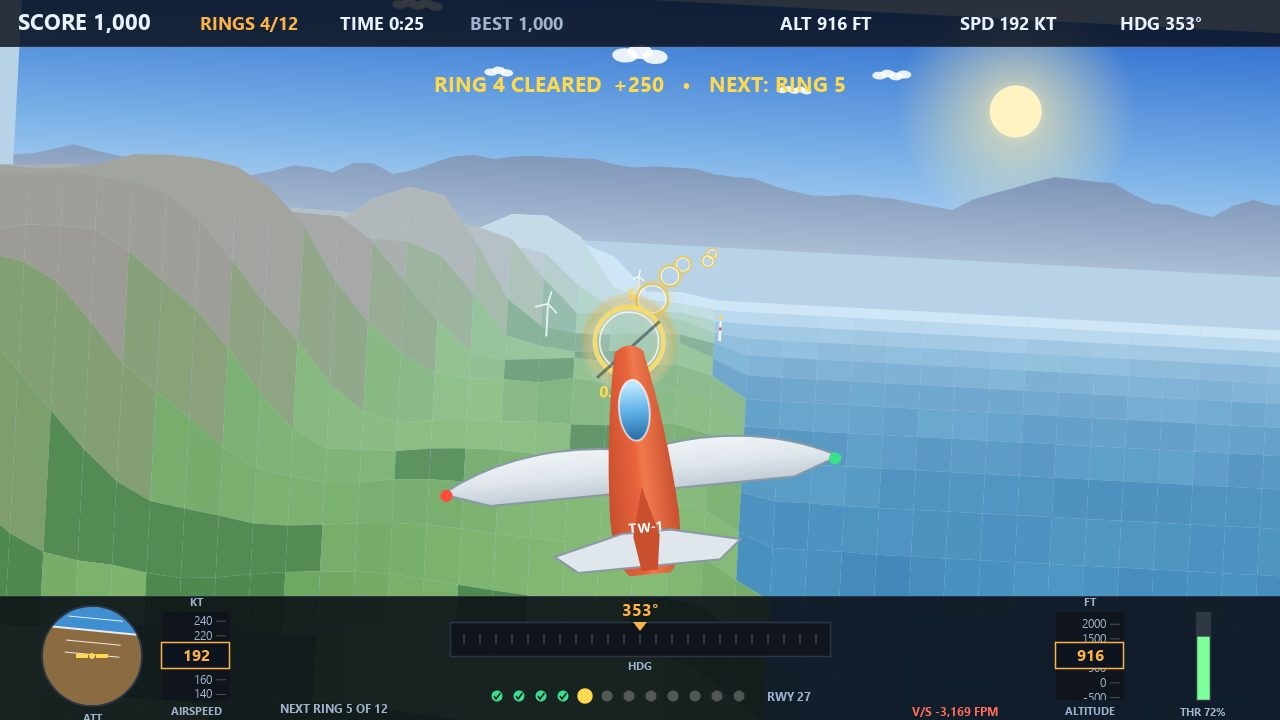
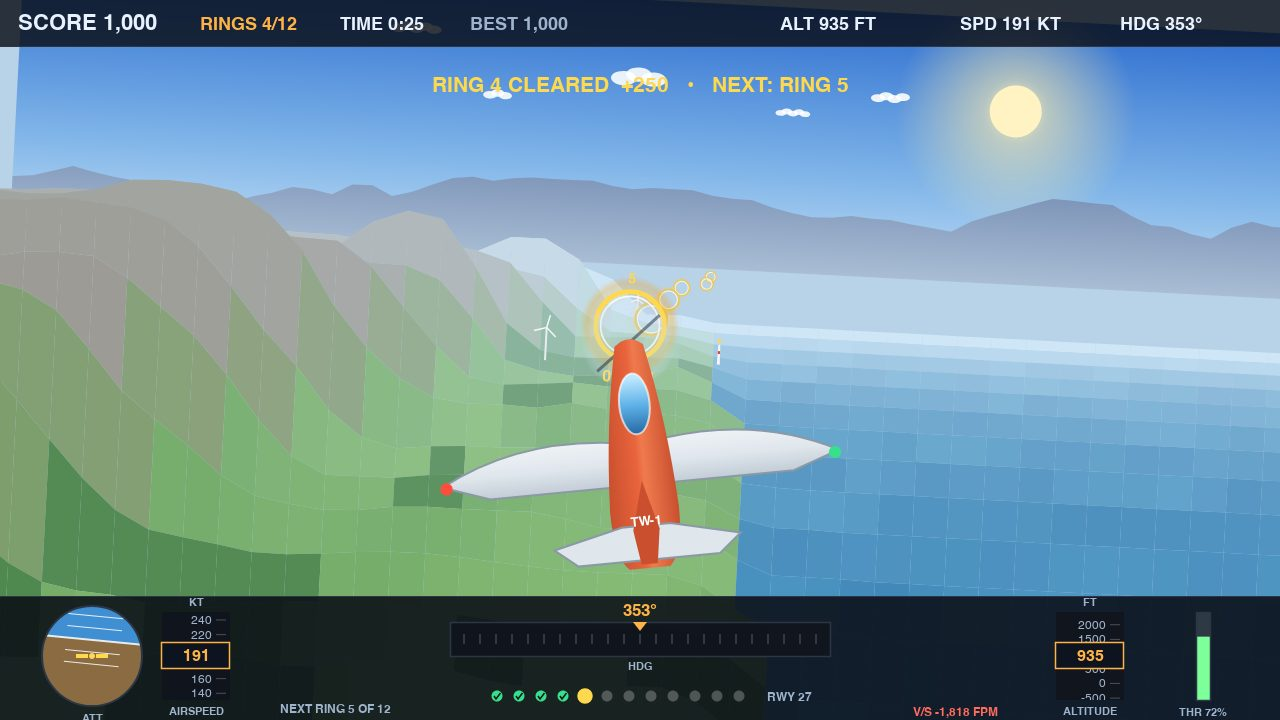
Round 2: stopway past Runway 27, gentler ring steps, audio resume catch
- terrain: flat 8 ft overrun for 1,600 ft past the runway end; a long
  landing now settles or goes around instead of hitting a terrain wall
  (66-122 ft step) one foot past the pavement
- world: gentle touchdown up to 1,200 ft past the runway end counts as
  landing on Runway 27 (same gentle criteria); hard touchdown there
  reports TOO HARD ON THE RUNWAY
- course: consecutive ring altitudes capped to 150 ft steps, so no ring
  forces a steep dive (worst mid-rally dive -2,649 FPM vs -3,704 in r1)
- audio: catch the resume() promise so navigating away mid-game leaves
  no console error

Verified: full-gain autopilot lands 30/30 seeds, 12/12 rings, 5,100;
60%-authority pilot lands 10/10 in the stopway (was 0/10, all terrain
wall at z=31201); 50% lands 10/10; Camoufox playtest zero console
errors, zero external requests; screenshots re-rendered from real
renders; main.ts run twice, byte-identical.

diff --git a/game/src/world.js b/game/src/world.js
@@ -165,7 +165,7 @@ export function createWorld(seed) {
     // --- Ground: terrain, sea and the runway decide crash or landing. ---
     const ground = terrainHeight(state.x, state.z, seed);
     if (state.altitude <= ground) {
-      const onStrip = Math.abs(state.x - RUNWAY.x) <= RUNWAY.width / 2 && state.z >= RUNWAY.zStart && state.z <= RUNWAY.zEnd;
+      const onStrip = Math.abs(state.x - RUNWAY.x) <= RUNWAY.width / 2 && state.z >= RUNWAY.zStart && state.z <= RUNWAY.zEnd + RUNWAY.overrun;
       const gentle = state.verticalSpeed > -1200 && state.speed < 180 && Math.abs(state.roll) < 20;
       if (onStrip && gentle && state.phase !== PHASE_CRASHED) {
         state.phase = PHASE_LANDED;
@@ -186,7 +186,7 @@ export function createWorld(seed) {
         state.phase = PHASE_CRASHED;
         state.altitude = ground;
         if (ground <= 1 && state.z > 100) state.crashReason = 'DITCHED IN THE SEA';
-        else if (state.z >= RUNWAY.zStart && state.z <= RUNWAY.zEnd) state.crashReason = 'TOO HARD ON THE RUNWAY';
+        else if (state.z >= RUNWAY.zStart && state.z <= RUNWAY.zEnd + RUNWAY.overrun) state.crashReason = 'TOO HARD ON THE RUNWAY';
         else state.crashReason = 'TERRAIN IMPACT';
         events |= EVENT_CRASH | EVENT_OVER;
       }

diff --git a/game/src/terrain.js b/game/src/terrain.js
@@ -52,6 +52,13 @@ export function terrainHeight(x, z, seed) {
     const t = smoothstep(160, 60, Math.abs(x)) * smoothstep(23600, 24400, z);
     h = h * (1 - t) + 34 * t;
   }
+  // Overrun: flat, low ground just past the far end, as a real airfield has — a
+  // plane that floats past the pavement settles or goes around instead of hitting
+  // a terrain wall one foot past the threshold.
+  if (Math.abs(x) < 200 && z >= RUNWAY.zEnd && z < RUNWAY.zEnd + 1600) {
+    const t = smoothstep(200, 80, Math.abs(x)) * smoothstep(RUNWAY.zEnd + 1600, RUNWAY.zEnd + 300, z);
+    h = h * (1 - t) + 8 * t;
+  }
   if (inCity(x, z)) h = 24 + fbm2(x * 0.004, z * 0.004, seed + 9) * 6;
   return h;
 }
@@ -86,6 +93,9 @@ export function buildCourse(seed) {
     let altitude = 750 + Math.sin(i * 0.6 + 1.2) * 260 + rng() * 160;
     const taper = 1 - 0.45 * Math.max(0, (i - 8) / 3);
     altitude *= taper;
+    // The rally flows instead of porpoising: consecutive rings never demand more
+    // than a gentle 150 ft step, so no ring forces a steep dive to reach the next.
+    if (i > 0) altitude = clamp(altitude, rings[i - 1].altitude - 150, rings[i - 1].altitude + 150);
     rings.push({ index: i + 1, x, z, altitude, radius: RINGS.radius });
   }
   return rings;

diff --git a/game/src/audio.js b/game/src/audio.js
@@ -79,7 +79,7 @@ export function createAudio() {
     /** Call from any user gesture; safe to call repeatedly. */
     unlock() {
       ensure();
-      if (context && context.state === 'suspended') context.resume();
+      if (context && context.state === 'suspended') context.resume().catch(() => {});
     },
     /** Continuous engine + wind, from the plane's throttle and speed. */
     update(throttle, speed, flying) {

diff --git a/game/src/config.js b/game/src/config.js
@@ -49,6 +49,8 @@ export const RUNWAY = {
   width: 34,
   elevation: 0,
   heading: 270,
+  /** Stopway past the far end: a gentle touchdown here still counts as landing. */
+  overrun: 1200,
 };
 
 export const SCORING = {

diff --git a/README.md b/README.md
@@ -4,7 +4,7 @@
 [![rank](https://make.fun/badge/best-flight-game-20261126-0057/sinker234/best-flight-game-entry/rank.svg)](https://make.fun/bounty/best-flight-game-20261126-0057/leaderboard?utm_source=github&utm_medium=readme&utm_campaign=best-flight-game-20261126-0057)
 [![reward](https://make.fun/badge/best-flight-game-20261126-0057/sinker234/best-flight-game-entry/reward.svg)](https://make.fun/bounty/best-flight-game-20261126-0057?utm_source=github&utm_medium=readme&utm_campaign=best-flight-game-20261126-0057)
 
-TAILWIND — Seaside Air Rally: a complete flight game for make.fun's "Make the best flight game" bounty. Fly the Gullwing TW-1 prop plane in chase view down a 5-nautical-mile seeded coast — sea, curving beach, hills, a mountain wall, the town of Seabreeze with its lighthouse and 3 wind turbines — through 12 glowing numbered gold rings (+250 each), then a final approach and landing on Runway 27 (+1,000, time bonus up to +600, smooth-landing bonus +500). Crash on terrain or sea, slam the runway, or overshoot and the flight is over. Cockpit instruments lit throughout: digital ALT / SPD / HDG, attitude indicator, airspeed and altitude tapes, heading compass strip, throttle bar, vertical speed, and a 12-dot course strip. Keyboard (arrows/WASD bank & pitch, Shift/Ctrl throttle, Space, P pause, M mute) or mouse steering, synthesized WebAudio engine/wind/chimes with no audio files. Built from scratch in one agent session — no libraries, no network requests, plain static files under game/.
+TAILWIND — Seaside Air Rally: a complete flight game for make.fun's "Make the best flight game" bounty. Fly the Gullwing TW-1 prop plane in chase view down a 5-nautical-mile seeded coast — sea, curving beach, hills, a mountain wall, the town of Seabreeze with its lighthouse and 3 wind turbines — through 12 glowing numbered gold rings (+250 each), then a final approach and landing on Runway 27 (+1,000, time bonus up to +600, smooth-landing bonus +500). The rings flow in gentle steps (never more than 150 ft between neighbours, so no ring forces a steep dive), and a 1,200 ft stopway past the far end of Runway 27 catches a long landing instead of a terrain wall. Crash on terrain or sea, slam the runway, or overshoot and the flight is over. Cockpit instruments lit throughout: digital ALT / SPD / HDG, attitude indicator, airspeed and altitude tapes, heading compass strip, throttle bar, vertical speed, and a 12-dot course strip. Keyboard (arrows/WASD bank & pitch, Shift/Ctrl throttle, Space, P pause, M mute) or mouse steering, synthesized WebAudio engine/wind/chimes with no audio files. Built from scratch in one agent session — no libraries, no network requests, plain static files under game/.
 
 ## Run it
 

diff --git a/dossier.md b/dossier.md
@@ -13,7 +13,8 @@ mountain wall to the west, the town of Seabreeze with its lighthouse, and three 
 turbines on the hilltops. The rally is **12 glowing gold rings** woven along the
 coast — fly through each one (+250 points, chime, "RING n CLEARED") — then a **final
 approach and landing on Runway 27** (+1,000, plus a time bonus and a smooth-landing
-bonus). Miss a ring and the rally goes on; ditch in the sea, hit terrain, or slam
+bonus). The rings step gently (never more than 150 ft between neighbours), and a
+1,200 ft stopway past the far end of the runway catches a long landing. Miss a ring and the rally goes on; ditch in the sea, hit terrain, or slam
 the runway and the flight is over.
 
 ## What is on screen (what the judge sees)
@@ -76,8 +77,15 @@ fixed seed (`?shot=…&seed=7`), taken in headless Chrome:
 
 Loaded in headless Chrome (Camoufox) with zero console errors and zero network
 requests; started with Space, steered with arrow keys and the mouse (heading moved
-335° after a left turn), cleared rings, and landed on Runway 27. The `?shot=` scenes
-are deterministic: the same seed always stages the same frame. A headless Node
-simulation of the real world + autopilot lands on Runway 27 for seeds 7 and 42
-(11/12 and 10/12 rings, scores 4,850 and 4,600). Play-test script:
-`~/workspace/makefun-agent/playtest-flight.py`.
+335° after a left turn), paused with P, crashed into terrain and got the crash
+screen, cleared rings, and landed on Runway 27. The `?shot=` scenes are
+deterministic: the same seed always stages the same frame. A headless Node
+simulation of the real world + autopilot lands on Runway 27 for seeds 1–30
+(12/12 rings, score 5,100 every seed); a deliberately sloppy pilot at 60% control
+authority still lands 10/10, touching down in the 1,200 ft stopway, while at 50%
+it lands 10/10 further down the stopway — the old terrain wall one foot past the
+runway end is gone. Ring steps are capped at 150 ft, so the worst mid-rally dive
+across 30 seeds is −2,649 FPM (round 1 showed −3,169 FPM in the play screenshot;
+round 2 shows −1,818 FPM). Play-test script:
+`~/workspace/makefun-agent/r2-audit/playtest-r2.py`; sims in
+`~/workspace/makefun-agent/r2-audit/verify1.mjs`, `verify2.mjs`, `verify3.mjs`.
